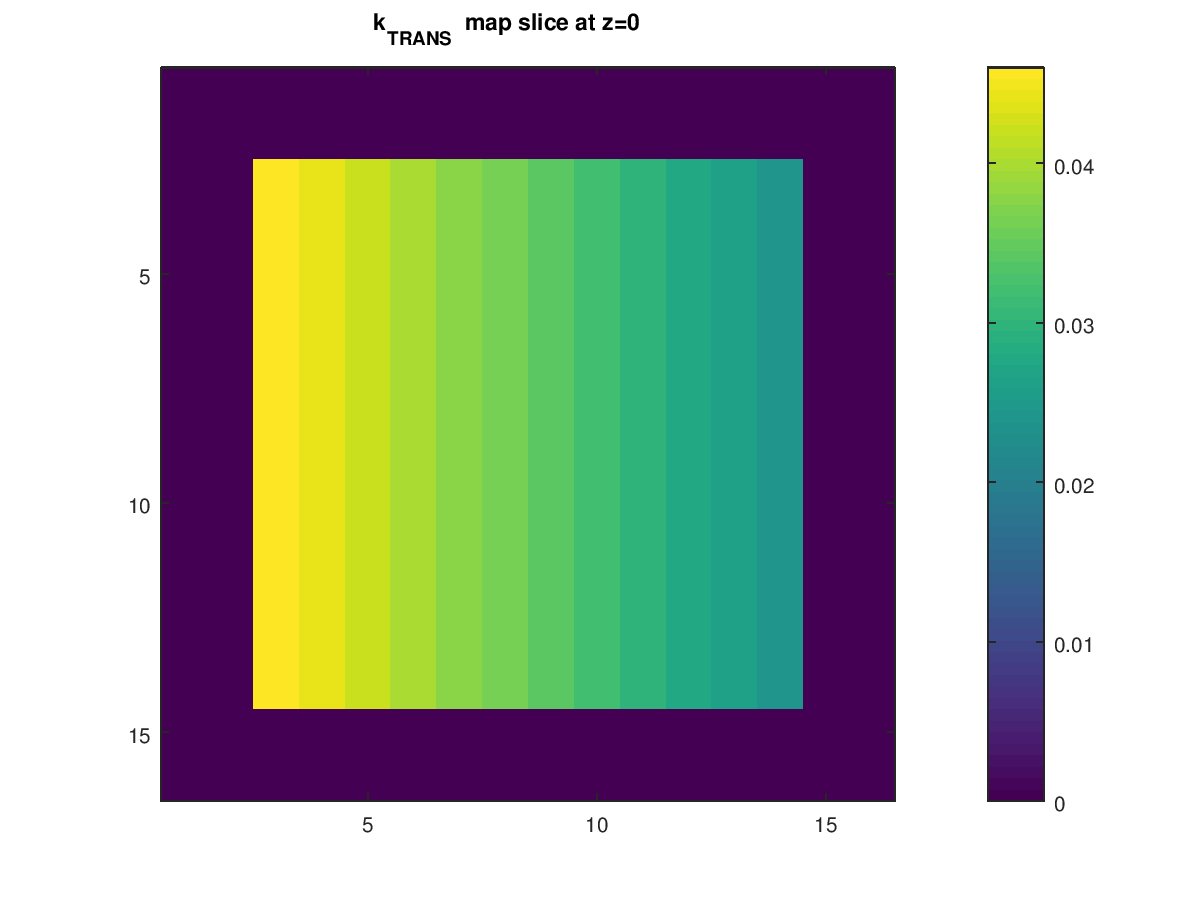
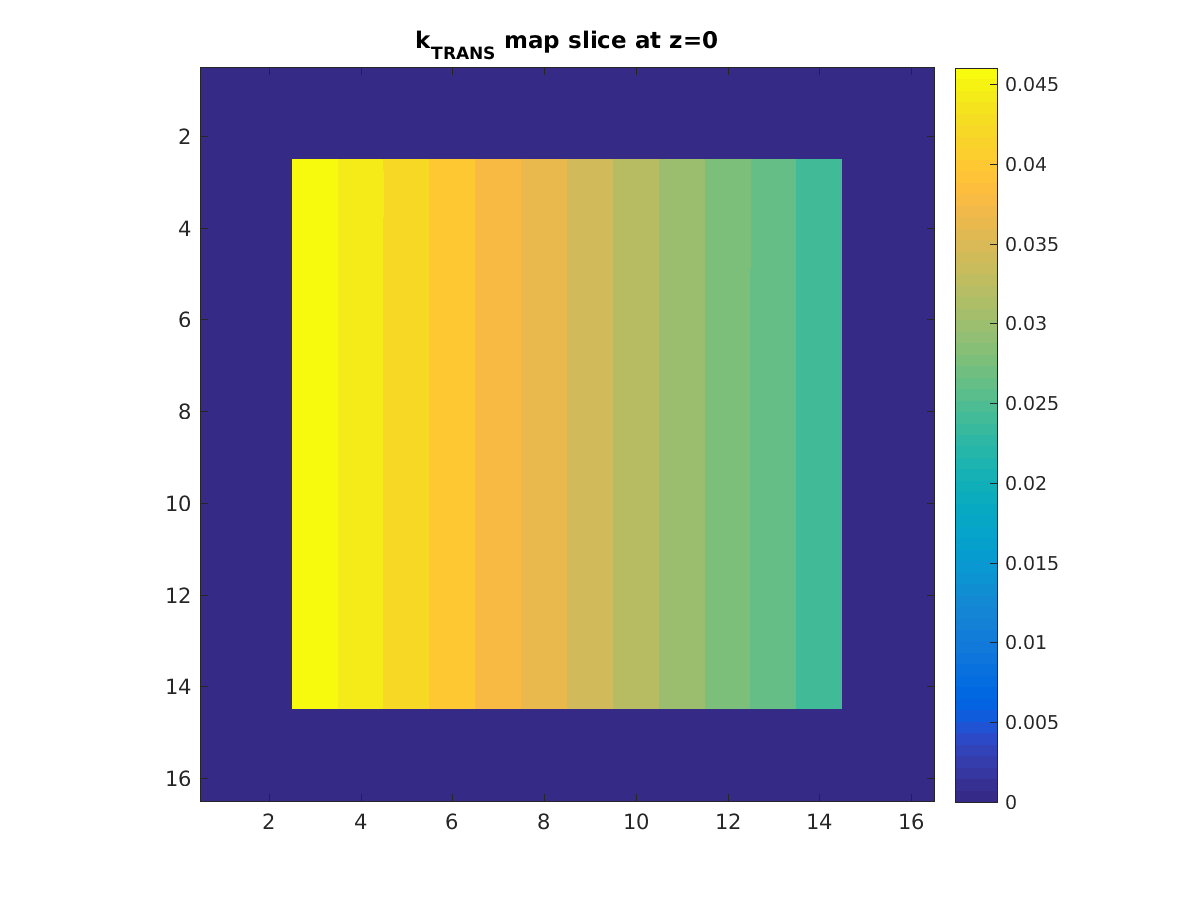
minor fix to metabolic_phantom

diff --git a/metabolic_phantom/metabolic_phantom.m b/metabolic_phantom/metabolic_phantom.m
@@ -30,7 +30,7 @@ function [kTRANS, kPL] = metabolic_phantom( nx, ny, nz, kTRANS_low, kTRANS_high,
     
     if (linear_kTRANS_gradient)
         scale = 0.5*(kTRANS_low - kTRANS_high)*X + 0.5*(kTRANS_low + kTRANS_high);
-        kTRANS += scale.*rectangle_shape(X, Y, Z, 1.6, 1.6, 1.6, 0, 0, 0);
+        kTRANS = kTRANS + scale.*rectangle_shape(X, Y, Z, 1.6, 1.6, 1.6, 0, 0, 0);
     else
         kTRANS = kTRANS + kTRANS_low*rectangle_shape(X, Y, Z, 0.8, 1.6, 1.6, 0.4, 0, 0);
         kTRANS = kTRANS + kTRANS_high*rectangle_shape(X, Y, Z, 0.8, 1.6, 1.6, -0.4, 0, 0);
